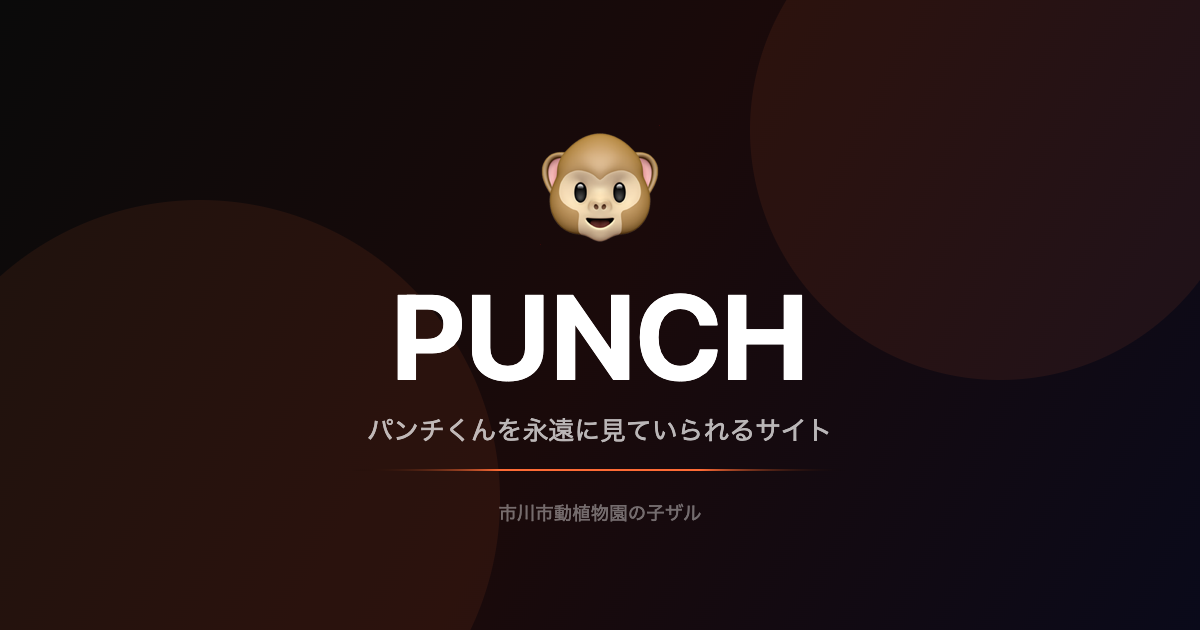
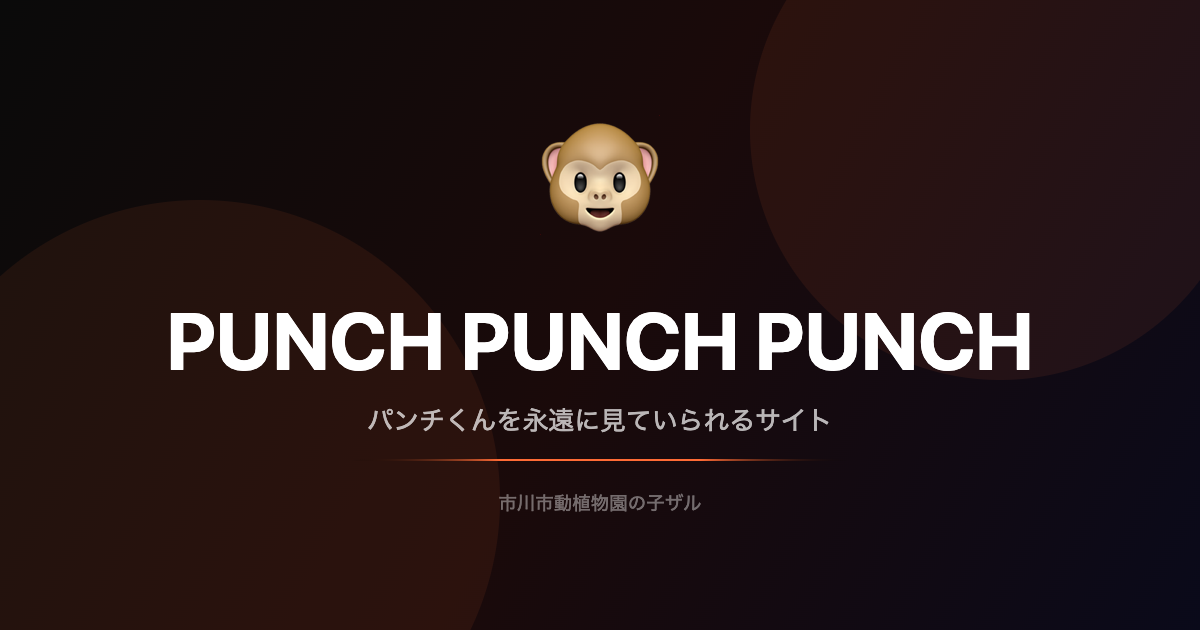
タイトルをPUNCH PUNCH PUNCHに変更

diff --git a/index.html b/index.html
@@ -3,9 +3,9 @@
   <head>
     <meta charset="UTF-8" />
     <meta name="viewport" content="width=device-width, initial-scale=1.0, viewport-fit=cover" />
-    <title>PUNCH - パンチくんを永遠に見ていられるサイト</title>
+    <title>PUNCH PUNCH PUNCH - パンチくんを永遠に見ていられるサイト</title>
     <meta name="description" content="市川市動植物園の子ザル・パンチくんの動画が無限に流れるTikTok風サイト" />
-    <meta property="og:title" content="PUNCH" />
+    <meta property="og:title" content="PUNCH PUNCH PUNCH" />
     <meta property="og:description" content="パンチくんを永遠に見ていられるサイト" />
     <meta property="og:type" content="website" />
     <meta property="og:image" content="https://punch-orpin.vercel.app/ogp.png" />

diff --git a/src/App.jsx b/src/App.jsx
@@ -4,7 +4,7 @@ export default function App() {
   return (
     <div className="app">
       <header className="header">
-        <h1>PUNCH</h1>
+        <h1>PUNCH PUNCH PUNCH</h1>
       </header>
       <VideoFeed />
     </div>
